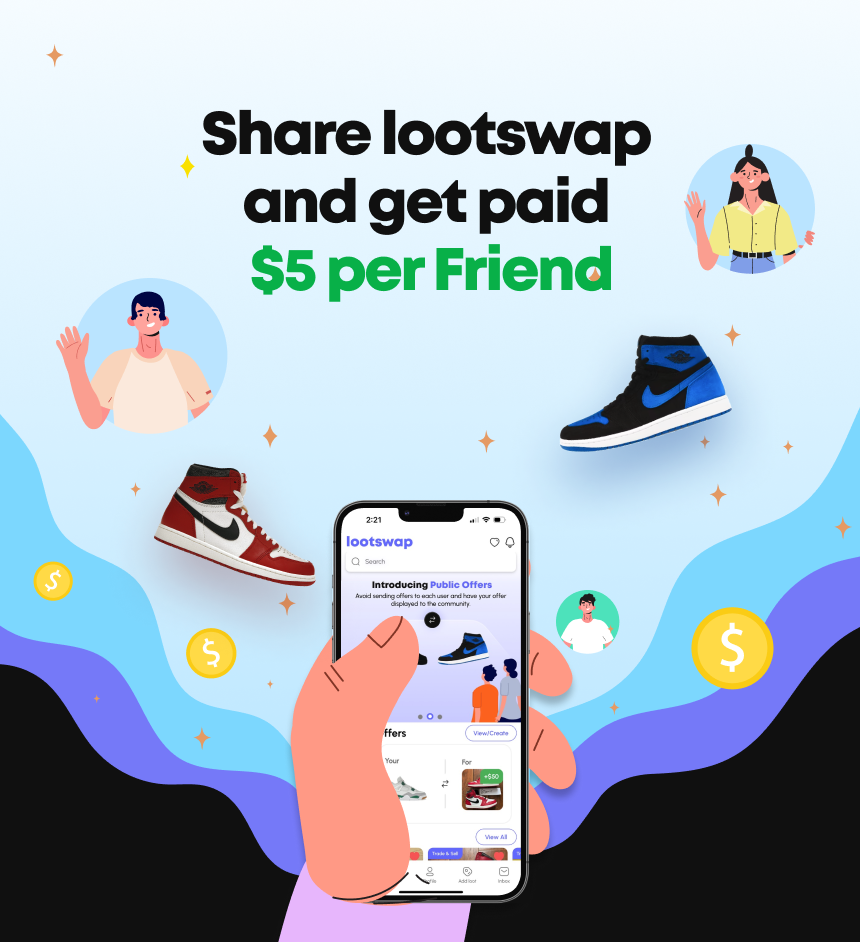
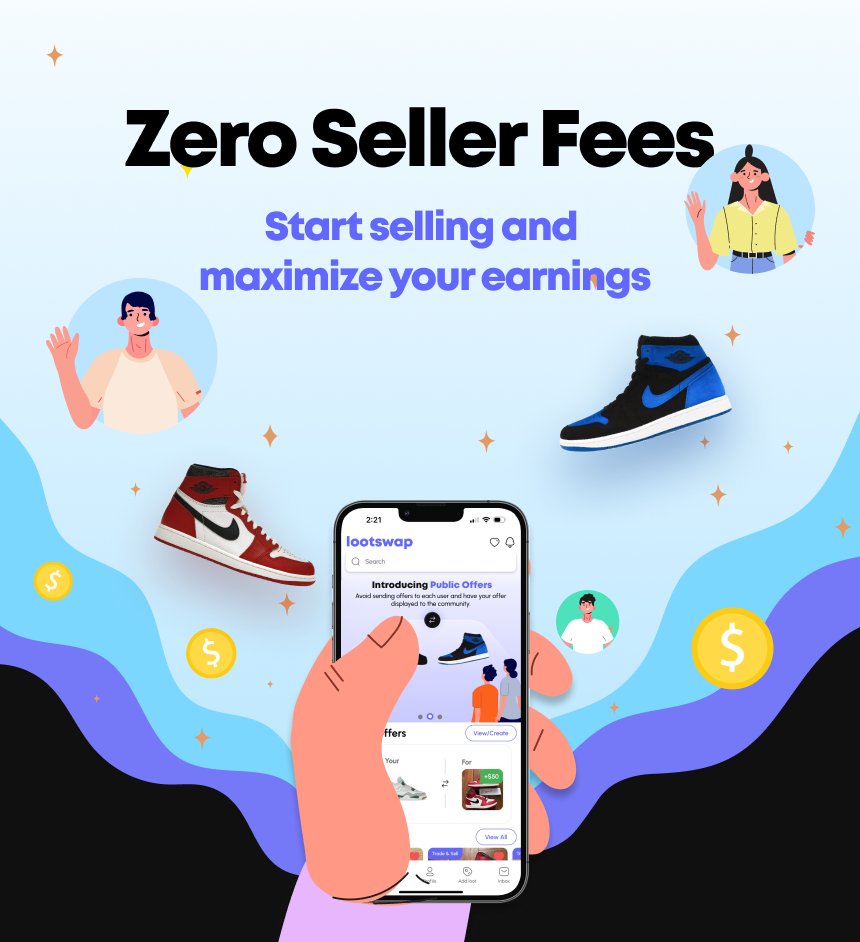
carousel updates

diff --git a/src/components/Carousel/HomeItems/OldStepOneHomeItem.tsx b/src/components/Carousel/HomeItems/OldStepOneHomeItem.tsx
@@ -1,0 +1,88 @@
+import React, {FC} from 'react';
+import {SvgXml} from 'react-native-svg';
+import LSButton from '../../commonComponents/LSButton';
+import {Size, Type} from 'custom_enums';
+import {SWAP_ICON_HOME_CAROASAL} from 'localsvgimages';
+import {
+  Container,
+  HeaderText,
+  VerticalSpace,
+  SwapContainer,
+  SwapIconContainer,
+  Image,
+  BottomLeftContainer,
+  BottomRightContainer,
+  BottomText,
+} from './styles';
+import {
+  CASH_BALENCE,
+  HOME_CAROUSEL_CLOTH_ONE,
+  HOME_CAROUSEL_CLOTH_TWO,
+  HOME_CAROUSEL_SHOE_ONE,
+  HOME_CAROUSEL_SHOE_TWO,
+  VERIFY_TRADES,
+} from '../../../constants/imageConstants';
+
+interface HeaderProps {
+  onItemPress?: string;
+}
+
+export const LSHomeOldStepOneCarouselItem: FC<HeaderProps> = React.memo(() => {
+  const renderSwapTopView = () => {
+    return (
+      <SwapContainer>
+        <Image source={HOME_CAROUSEL_SHOE_ONE} width={96} height={67.5} />
+        <SwapIconContainer>
+          <SvgXml xml={SWAP_ICON_HOME_CAROASAL} />
+        </SwapIconContainer>
+        <Image source={HOME_CAROUSEL_SHOE_TWO} width={96} height={67.5} />
+      </SwapContainer>
+    );
+  };
+  const renderSwapBottomView = () => {
+    return (
+      <SwapContainer>
+        <Image source={HOME_CAROUSEL_CLOTH_ONE} width={80} height={91} />
+        <SwapIconContainer>
+          <SvgXml xml={SWAP_ICON_HOME_CAROASAL} />
+        </SwapIconContainer>
+        <Image source={HOME_CAROUSEL_CLOTH_TWO} width={80} height={91} />
+      </SwapContainer>
+    );
+  };
+  const renderLeftBottomView = () => (
+    <BottomLeftContainer>
+      <Image source={VERIFY_TRADES} width={40} height={40} />
+      <BottomText>All trades are 100% verified</BottomText>
+    </BottomLeftContainer>
+  );
+  const renderRightBottomView = () => (
+    <BottomRightContainer>
+      <Image source={CASH_BALENCE} width={40} height={40} />
+      <BottomText>Add cash to balance deals</BottomText>
+    </BottomRightContainer>
+  );
+  return (
+    <Container>
+      <HeaderText>Swap Sneakers & Clothing</HeaderText>
+      <VerticalSpace space={5} />
+      <LSButton
+        title={'Safely & Securely'}
+        size={Size.Custom}
+        type={Type.Primary}
+        radius={6}
+        onPress={() => {}}
+        sizeFont={14}
+        customWidth={130}
+        customHeight={34}
+      />
+      {renderSwapTopView()}
+      {renderSwapBottomView()}
+      <SwapContainer>
+        {renderLeftBottomView()}
+        {renderRightBottomView()}
+      </SwapContainer>
+      <VerticalSpace space={5} />
+    </Container>
+  );
+});

diff --git a/src/screens/buy/checkoutScreen.tsx b/src/screens/buy/checkoutScreen.tsx
@@ -52,6 +52,11 @@ export const CheckoutScreen: FC<{}> = props => {
     Object.keys(userData?.shipping_address || {}).length < 5;
 
   const [paypalOrderId, setPaypalOrderId] = useState('');
+  const [costBreakdown, setCostBreakdown] = useState({
+    buyerFee: 0,
+    shippingCost: 0,
+    total: 0,
+  });
 
   useEffect(() => {
     if (userNoAddress) {
@@ -103,6 +108,8 @@ export const CheckoutScreen: FC<{}> = props => {
           console.log(res);
           PayPalModule.setupPayPal(res.clientId, __DEV__ ? 'sandbox' : 'live');
           setPaypalOrderId(res.id);
+          console.log(res.breakdown);
+          setCostBreakdown(res.breakdown);
         },
         err => {
           Alert.showError('Error checking out, please try again');
@@ -169,16 +176,7 @@ export const CheckoutScreen: FC<{}> = props => {
   };
 
   const renderTotal = () => {
-    if (isMoneyOffer) {
-      return parseFloat(
-        parseFloat(tradeData?.senderMoneyOffer) +
-          parseFloat(renderShippingCost()),
-      ).toFixed(2);
-    } else {
-      return parseFloat(
-        parseFloat(renderShippingCost()) + parseFloat(productData?.price),
-      ).toFixed(2);
-    }
+    return costBreakdown.total.toFixed(2);
   };
 
   const renderHeading = (label: string) => {
@@ -203,8 +201,8 @@ export const CheckoutScreen: FC<{}> = props => {
             ? tradeData?.senderMoneyOffer.toFixed(2)
             : productData?.price.toFixed(2),
         )}
-        {renderSummaryDetail('Shipping', renderShippingCost().toFixed(2))}
-        {/*renderSummaryDetail('Taxes and fees', paymentDetails?.)*/}
+        {renderSummaryDetail('Shipping', costBreakdown.shippingCost.toFixed(2))}
+        {renderSummaryDetail('Taxes and Fees', costBreakdown.buyerFee.toFixed(2))}
       </EmptyView>
     );
   };

diff --git a/src/components/Carousel/index.tsx b/src/components/Carousel/index.tsx
@@ -6,6 +6,7 @@ import {LSHomeStepOneCarouselItem} from './HomeItems/StepOneHomeItem';
 import {LSHomeStepTwoCarouselItem} from './HomeItems/StepTwoHomeItem';
 import {LSHomeStepThreeCarouselItem} from './HomeItems/StepThreeHomeItem';
 import {LSHomeStepFourCarouselItem} from './HomeItems/StepFourHomeItem';
+import {LSHomeOldStepOneCarouselItem} from './HomeItems/StepFourHomeItem';
 import {LSGiveawayHomeItem} from './HomeItems/GiveawayHomeItem';
 import {useSelector} from 'react-redux';
 import {AuthProps} from '../../redux/modules/auth/reducer';
@@ -118,9 +119,9 @@ function CarouselComponent(props: CarouselProps) {
           <LSHomeStepOneCarouselItem />
         );
       case 2:
-        return <LSHomeStepFourCarouselItem />;
-      case 3:
         return <LSHomeStepTwoCarouselItem />;
+      case 3:
+        return <LSHomeStepFourCarouselItem />;
       default:
         return <LSHomeStepFourCarouselItem />;
     }
@@ -157,8 +158,8 @@ function CarouselComponent(props: CarouselProps) {
         width={width}
         height={height - 80}
         parallaxScrollingOffset={50}
-        autoPlay={false}
-        autoPlayInterval={10000}
+        autoPlay={true}
+        autoPlayInterval={3300}
         keyExtractor={item => item}
         data={imagesArr}
         onSnapToItem={newIndex => setActiveIndex(newIndex)}

diff --git a/src/components/Carousel/HomeItems/styles.ts b/src/components/Carousel/HomeItems/styles.ts
@@ -31,17 +31,21 @@ export const HeaderText = styled.Text.attrs(props => ({
 
 export const HeaderPrimaryText = styled.Text.attrs(props => ({
   color: props.theme.colors.primary,
+  ml: scale(5),
+  pt: scale(5),
 }))`
-  font-weight: bold;
+  font-weight: 900;
+  font-size: ${scale(18)}px;
   font-family: Mont;
   ${color}
+  ${space}
 `;
 
 export const StepTwoSubText = styled.Text.attrs(props => ({
   color: props.theme.colors.black,
 }))`
   font-weight: 400;
-  font-size: 14px;
+  font-size: 15px;
   font-family: Urbanist;
   width: 85%;
   text-align: center;
@@ -142,7 +146,7 @@ export const StepOneImage = styled.Image.attrs((props: any) => ({
 export const CenteredButton = styled.TouchableOpacity`
   position: absolute;
   top: 54%;
-  left: 28%;
+  left: 35%;
 `;
 export const BottomLeftContainer = styled.View.attrs(() => ({
   height: scale(38),
@@ -242,6 +246,7 @@ export const SecondRightImage = styled.View.attrs(() => ({}))`
 export const StepThreeHeaderText = styled.Text.attrs(props => ({
   color: props.theme.colors.text,
   ml: scale(5),
+  mt: scale(9),
 }))`
   font-weight: 900;
   font-size: ${scale(18)}px;

diff --git a/src/components/Carousel/HomeItems/StepOneHomeItem.tsx b/src/components/Carousel/HomeItems/StepOneHomeItem.tsx
@@ -16,13 +16,15 @@ export const LSHomeStepOneCarouselItem: FC<HeaderProps> = React.memo(() => {
       <StepOneImage source={REFER_FRIEND} />
       <CenteredButton>
       <LSButton
-        title={'Refer Now'}
-        size={Size.Fit_To_Width}
+        title={'Start selling'}
+        size={Size.Custom}
+        customHeight={35}
+        customWidth={110}
         type={Type.Primary}
         radius={10}
-        onPress={() => navigation.navigate('ReferralScreen')}
+        onPress={() => navigation.navigate('List item')}
         fitToWidth={'66%'}
-        sizeFont={18}
+        sizeFont={17}
       />
       </CenteredButton>
     </StepOneContainer>

diff --git a/src/components/Carousel/HomeItems/StepTwoHomeItem.tsx b/src/components/Carousel/HomeItems/StepTwoHomeItem.tsx
@@ -26,12 +26,12 @@ export const LSHomeStepTwoCarouselItem: FC<any> = React.memo(() => {
   return (
     <Container>
       <StepThreeHeaderText>
-        Introducing
-        <HeaderPrimaryText> Public Offers</HeaderPrimaryText>
+        All Traded Items Are
       </StepThreeHeaderText>
+      <HeaderPrimaryText> Authenticated</HeaderPrimaryText>
       <StepTwoSubText>
-        Avoid sending offers to each user and have your offer displayed to the
-        community.
+        Any items you trade get sent to our authentication center
+        so you dont get scammed.
       </StepTwoSubText>
       <Image
         source={HOME_CAROUSEL_MIDDLE}
